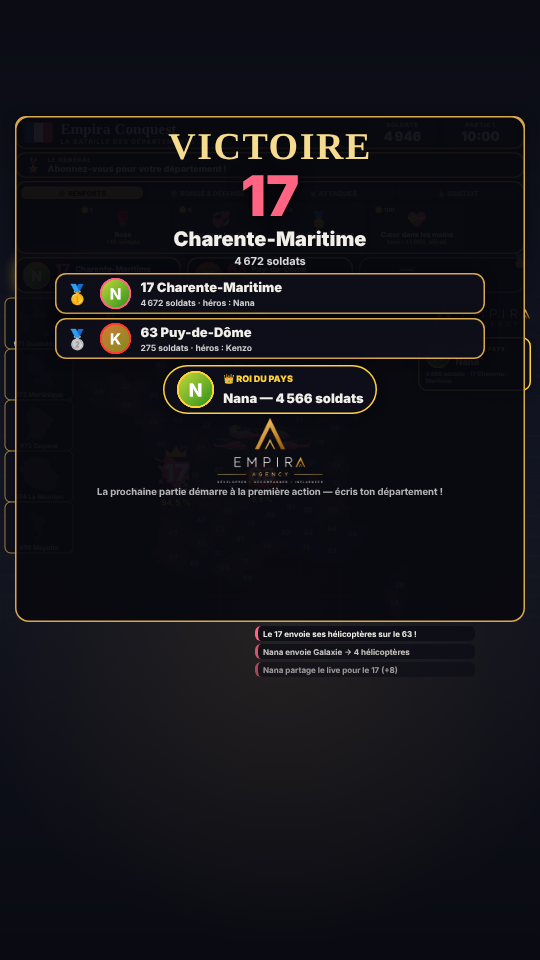
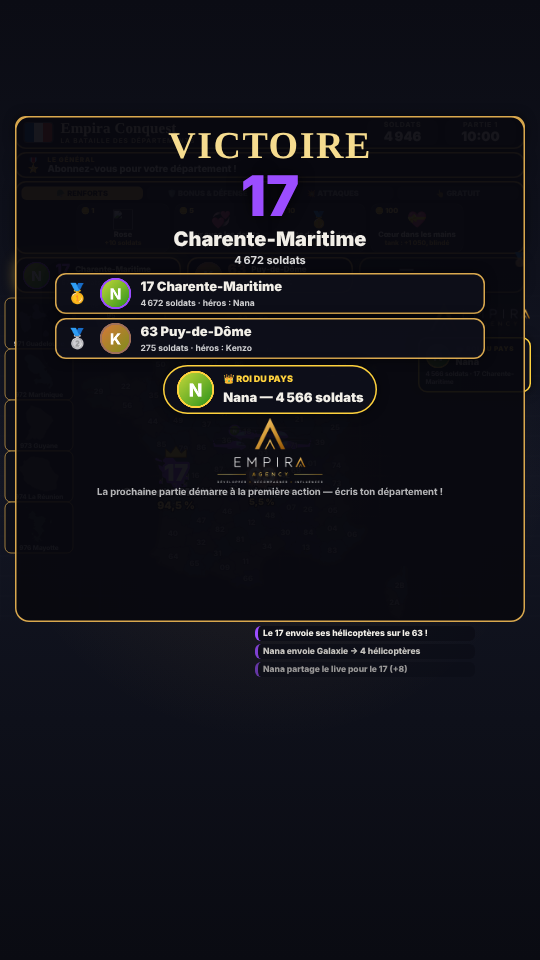
Image plus nette : rendu à la résolution réelle de l'affichage, photos en 720 px, textes agrandis
- le canevas suit la taille réelle (source LIVE Studio × mise à l'échelle Windows) au lieu d'être étiré
- cache de la carte en haute résolution, lissage des images en qualité haute
- photos de profil avatarMedium (720 px) au lieu de la miniature de 100 px
- numéros, noms et petites légendes agrandis et contourés (compression TikTok)
- guide : réglages de LIVE Studio pour une image nette

Claude-Session: https://claude.ai/code/session_01NCuRgus5nC27Z2ujoNiFEU

diff --git a/produit/src/page.html b/produit/src/page.html
@@ -8,7 +8,7 @@
 :root { color-scheme: dark; --contour: #d9a84e; --k: 0.5; --police: 'Segoe UI', system-ui, -apple-system, Roboto, sans-serif; }
 * { box-sizing: border-box; }
 html, body { margin: 0; height: 100%; background: #07080d; overflow: hidden; }
-body { font-family: var(--police); color: #f2efe8; }
+body { font-family: var(--police); color: #f2efe8; -webkit-font-smoothing: antialiased; text-rendering: geometricPrecision; }
 #scene { position: absolute; left: 50%; top: 50%; width: 1080px; height: 1920px; transform: translate(-50%, -50%) scale(var(--k)); }
 #carte { position: absolute; inset: 0; width: 1080px; height: 1920px; }
 #interface { position: absolute; inset: 0; pointer-events: none; }
@@ -20,39 +20,39 @@ body { font-family: var(--police); color: #f2efe8; }
 .titre { flex: 1; font: 700 30px Georgia, 'Times New Roman', serif; color: #f6ead0; letter-spacing: 0.01em; white-space: nowrap; overflow: hidden; text-overflow: ellipsis; }
 .titre small { display: block; font: 600 13px/1.25 var(--police); letter-spacing: 0.14em; text-transform: uppercase; color: #d9c49a; }
 .case { min-width: 140px; text-align: center; background: rgba(255, 255, 255, 0.06); border-radius: 12px; padding: 2px 12px; }
-.case small { display: block; font: 800 12px/1.2 var(--police); letter-spacing: 0.1em; color: #bdb4a0; }
+.case small { display: block; font: 800 14px/1.15 var(--police); letter-spacing: 0.1em; color: #bdb4a0; }
 .case b { font: 900 26px/1.15 var(--police); }
 .case b.urgent { color: #ff6b5b; }
 .general { top: 304px; left: 30px; right: 30px; height: 52px; display: grid; grid-template-columns: 36px 1fr; grid-template-rows: 15px 1fr; column-gap: 10px; align-items: center; padding: 4px 16px; }
 .general .medaille { grid-row: span 2; font-size: 28px; }
-.general small { font: 900 12px var(--police); letter-spacing: 0.12em; color: var(--contour); }
-.general p { margin: 0; font: 800 18px/1.15 var(--police); white-space: nowrap; overflow: hidden; text-overflow: ellipsis; }
+.general small { font: 900 13px var(--police); letter-spacing: 0.12em; color: var(--contour); }
+.general p { margin: 0; font: 800 19px/1.15 var(--police); white-space: nowrap; overflow: hidden; text-overflow: ellipsis; }
 .general.alerte { border-color: #ffd23d; animation: pulse 1.2s infinite; }
 .cadeaux { top: 362px; left: 30px; right: 30px; height: 146px; padding: 8px 10px; }
 .onglets { display: flex; gap: 8px; }
-.onglets span { flex: 1; text-align: center; padding: 4px 4px; border-radius: 10px; font: 900 14px var(--police); background: rgba(255, 255, 255, 0.05); color: rgba(255, 255, 255, 0.55); }
+.onglets span { flex: 1; text-align: center; padding: 4px 4px; border-radius: 10px; font: 900 15px var(--police); background: rgba(255, 255, 255, 0.05); color: rgba(255, 255, 255, 0.55); }
 .onglets span.actif { background: var(--contour); color: #150f02; }
 .cartes { display: flex; gap: 10px; justify-content: center; margin-top: 7px; }
 .carte { position: relative; width: 186px; height: 98px; display: flex; flex-direction: column; align-items: center; justify-content: center; gap: 2px; padding: 8px; border-radius: 16px; background: rgba(255, 255, 255, 0.05); border: 1px solid rgba(255, 255, 255, 0.1); animation: entree 0.45s ease-out both; }
 .carte:nth-child(2) { animation-delay: 0.05s; } .carte:nth-child(3) { animation-delay: 0.1s; } .carte:nth-child(4) { animation-delay: 0.15s; } .carte:nth-child(5) { animation-delay: 0.2s; }
 .carte .icone { font-size: 32px; line-height: 40px; width: 40px; height: 40px; object-fit: contain; text-align: center; }
-.carte .prix { position: absolute; top: 5px; left: 8px; font: 800 12px var(--police); color: #ffd166; }
-.carte b { font: 800 14px/1.1 var(--police); text-align: center; }
-.carte .effet { font: 800 12px/1.1 var(--police); color: var(--contour); text-align: center; }
+.carte .prix { position: absolute; top: 5px; left: 8px; font: 900 14px var(--police); color: #ffd166; }
+.carte b { font: 800 15px/1.1 var(--police); text-align: center; }
+.carte .effet { font: 800 13px/1.1 var(--police); color: var(--contour); text-align: center; }
 .top3 { top: 514px; left: 30px; right: 30px; height: 72px; display: flex; gap: 12px; }
 .place { flex: 1; display: grid; grid-template-columns: 56px auto 1fr; grid-template-rows: 1fr 1fr; column-gap: 10px; align-items: center; padding: 6px 12px; min-width: 0; }
 .place .photo { grid-row: span 2; width: 56px; height: 56px; }
 .place .num { font: 900 28px/1 var(--police); }
 .place .nom { font: 800 16px var(--police); white-space: nowrap; overflow: hidden; text-overflow: ellipsis; }
-.place .det { grid-column: span 2; font: 700 13px var(--police); color: rgba(255, 255, 255, 0.75); white-space: nowrap; }
+.place .det { grid-column: span 2; font: 700 14px var(--police); color: rgba(255, 255, 255, 0.75); white-space: nowrap; }
 .place .medaille { position: absolute; top: -10px; right: -6px; font-size: 26px; }
 .place.p0 { box-shadow: 0 0 26px rgba(255, 210, 61, 0.35); }
 .place.vide { opacity: 0.55; }
 .roi { top: 674px; right: 18px; width: 226px; display: grid; grid-template-columns: 50px 1fr; grid-template-rows: auto auto auto; column-gap: 10px; row-gap: 2px; align-items: center; padding: 10px 12px; border-color: #ffd23d; border-radius: 18px; }
 .roi .photo { grid-row: span 2; width: 50px; height: 50px; }
-.roi small { font: 900 11px var(--police); letter-spacing: 0.1em; color: #ffd23d; }
+.roi small { font: 900 13px var(--police); letter-spacing: 0.1em; color: #ffd23d; }
 .roi b { font: 900 18px/1.05 var(--police); white-space: nowrap; overflow: hidden; text-overflow: ellipsis; }
-.roi span { grid-column: span 2; font: 700 12px/1.25 var(--police); color: rgba(255, 255, 255, 0.75); }
+.roi span { grid-column: span 2; font: 700 13px/1.25 var(--police); color: rgba(255, 255, 255, 0.75); }
 .mission, .evenement { display: none; padding: 10px 12px; }
 .mission { top: 812px; right: 18px; width: 226px; border-color: #22c55e; }
 .evenement { top: 812px; right: 18px; width: 226px; border-color: #ffd23d; }
@@ -64,14 +64,14 @@ body { font-family: var(--police); color: #f2efe8; }
 .mission p { font-size: 13px; }
 .barre { height: 16px; border-radius: 8px; overflow: hidden; background: rgba(0, 0, 0, 0.4); }
 .barre i { display: block; height: 100%; background: #22c55e; transition: width 0.3s; }
-.mission small, .evenement small { display: block; margin-top: 4px; font: 700 12px/1.25 var(--police); color: rgba(255, 255, 255, 0.8); }
-.mission small { font-size: 11px; }
+.mission small, .evenement small { display: block; margin-top: 4px; font: 700 13px/1.25 var(--police); color: rgba(255, 255, 255, 0.8); }
+.mission small { font-size: 12px; }
 .temps-barre { height: 5px; margin-top: 6px; border-radius: 3px; background: rgba(0, 0, 0, 0.35); }
 .temps-barre i { display: block; height: 100%; background: #ffd166; border-radius: 3px; }
 .vague { top: 604px; left: 50%; transform: translateX(-50%); display: none; padding: 8px 24px; border-radius: 30px; background: linear-gradient(90deg, #ff8a00, #ffd23d); color: #1a1000; font: 900 26px var(--police); white-space: nowrap; box-shadow: 0 0 24px rgba(255, 180, 0, 0.6); }
 .vague.montre { display: block; animation: pulse 1s infinite; }
 .fil { top: 1252px; right: 130px; width: 440px; display: flex; flex-direction: column; gap: 6px; }
-.fil .ligne { background: rgba(12, 13, 22, 0.88); border-left: 6px solid var(--contour); border-radius: 12px; padding: 5px 10px; font: 700 16px var(--police); white-space: nowrap; overflow: hidden; text-overflow: ellipsis; animation: glisse 0.35s ease-out; }
+.fil .ligne { background: rgba(12, 13, 22, 0.9); border-left: 6px solid var(--contour); border-radius: 12px; padding: 5px 10px; font: 800 17px var(--police); white-space: nowrap; overflow: hidden; text-overflow: ellipsis; animation: glisse 0.35s ease-out; }
 .fil .ligne:nth-child(2) { opacity: 0.8; } .fil .ligne:nth-child(3) { opacity: 0.6; }
 .annonce { top: 1150px; left: 60px; right: 60px; padding: 12px 20px; text-align: center; font: 900 30px/1.15 var(--police); opacity: 0; transform: scale(0.6); transition: opacity 0.25s, transform 0.35s cubic-bezier(.2, 1.6, .4, 1); }
 .annonce.montre { opacity: 1; transform: scale(1); }

diff --git a/produit/src/rendu.js b/produit/src/rendu.js
@@ -76,12 +76,35 @@ export class Rendu {
     this.parCode = new Map(this.deps.map((d) => [d.code, d]));
     this.boiteIdf = IDF.codes.map((c) => this.parCode.get(c).boite).reduce((a, b) => ({ x1: Math.min(a.x1, b.x1), y1: Math.min(a.y1, b.y1), x2: Math.max(a.x2, b.x2), y2: Math.max(a.y2, b.y2) }));
     this.cam = { x: MAP_SIZE[0] / 2, y: MAP_SIZE[1] / 2, s: 1, cx: MAP_SIZE[0] / 2, cy: MAP_SIZE[1] / 2, cs: 1, jusqua: 0, repos: 0 };
+    this.q = 1; // pixels réels par pixel de la scène 1080 × 1920 (voir adapter)
+    this.cacheK = 2; // résolution du cache de la carte
     this.cache = document.createElement('canvas');
-    this.cache.width = MAP_SIZE[0] * 2;
-    this.cache.height = MAP_SIZE[1] * 2;
+    this.cache.width = MAP_SIZE[0] * this.cacheK;
+    this.cache.height = MAP_SIZE[1] * this.cacheK;
     this.cleCache = '';
     this.fond = this.#fond();
     this.vider();
+  }
+
+  /**
+   * Netteté : le canevas est dessiné à la résolution réelle de l'affichage (taille de la source dans LIVE Studio ×
+   * mise à l'échelle de Windows), au lieu d'une image fixe de 1080 × 1920 agrandie (floue à 125 % ou 150 %).
+   */
+  adapter(q) {
+    const nq = Math.max(0.5, Math.min(3, Math.round(q * 100) / 100));
+    if (nq === this.q && this.canvas.width === Math.round(LARGEUR * nq)) return;
+    this.q = nq;
+    this.canvas.width = Math.round(LARGEUR * nq);
+    this.canvas.height = Math.round(HAUTEUR * nq);
+    // la carte peut être zoomée ×2 : son cache doit suivre la résolution
+    const ck = Math.min(4, Math.max(2, Math.ceil(nq * 1.4)));
+    if (ck !== this.cacheK) {
+      this.cacheK = ck;
+      this.cache.width = MAP_SIZE[0] * ck;
+      this.cache.height = MAP_SIZE[1] * ck;
+    }
+    this.cleCache = '';
+    this.fond = this.#fond();
   }
 
   vider() {
@@ -107,16 +130,17 @@ export class Rendu {
 
   #fond() {
     const c = document.createElement('canvas');
-    c.width = LARGEUR;
-    c.height = HAUTEUR;
+    c.width = Math.round(LARGEUR * this.q);
+    c.height = Math.round(HAUTEUR * this.q);
     const g = c.getContext('2d');
+    g.scale(this.q, this.q);
     const grad = g.createLinearGradient(0, 0, 0, HAUTEUR);
     grad.addColorStop(0, '#0b0c14');
     grad.addColorStop(0.5, '#121522');
     grad.addColorStop(1, '#0a0b12');
     g.fillStyle = grad;
     g.fillRect(0, 0, LARGEUR, HAUTEUR);
-    const halo = g.createRadialGradient(560, 1280, 40, 560, 1280, 620);
+    const halo = g.createRadialGradient(540, 920, 40, 540, 920, 560);
     halo.addColorStop(0, 'rgba(217,168,78,0.10)');
     halo.addColorStop(1, 'rgba(217,168,78,0)');
     g.fillStyle = halo;
@@ -540,8 +564,9 @@ export class Rendu {
   dessiner(dt) {
     this.#avancer(dt);
     const { ctx } = this;
-    ctx.setTransform(1, 0, 0, 1, 0, 0);
-    ctx.drawImage(this.fond, 0, 0);
+    ctx.setTransform(this.q, 0, 0, this.q, 0, 0);
+    ctx.imageSmoothingQuality = 'high';
+    ctx.drawImage(this.fond, 0, 0, LARGEUR, HAUTEUR);
     ctx.save();
     ctx.beginPath();
     ctx.rect(0, ZONE.haut, LARGEUR, ZONE.bas - ZONE.haut);
@@ -649,7 +674,8 @@ export class Rendu {
       const g = this.cache.getContext('2d');
       g.setTransform(1, 0, 0, 1, 0, 0);
       g.clearRect(0, 0, this.cache.width, this.cache.height);
-      g.setTransform(2, 0, 0, 2, 0, 0);
+      g.setTransform(this.cacheK, 0, 0, this.cacheK, 0, 0);
+      g.imageSmoothingQuality = 'high';
       g.shadowColor = 'rgba(217,168,78,0.25)';
       g.shadowBlur = 24;
       g.fillStyle = '#1b1e2c';
@@ -723,7 +749,7 @@ export class Rendu {
       if (['75', '92', '93', '94'].includes(d.code) && this.cam.s < 1.6) continue;
       const [x, y] = this.ecran(d.code);
       if (y < ZONE.haut || y > ZONE.bas) continue;
-      this.#texte(d.code, x, y, { taille: (e ? 18 : 14) * z, poids: 800, align: 'center', couleur: e ? '#fff' : 'rgba(255,255,255,0.35)', contour: e ? 'rgba(0,0,0,0.7)' : null });
+      this.#texte(d.code, x, y, { taille: (e ? 21 : 15) * z, poids: 800, align: 'center', couleur: e ? '#fff' : 'rgba(255,255,255,0.45)', contour: e ? 'rgba(0,0,0,0.85)' : 'rgba(0,0,0,0.35)', epaisseur: e ? 5 : 3 });
     }
     // le top 3 en grand, avec nom et pourcentage
     cl.slice(0, 3).forEach((e, i) => {
@@ -735,8 +761,8 @@ export class Rendu {
       if (i === 0) this.#couronne(x, y - 34 * s, 16 * s);
       this.#texte(e.code, x, y, { taille: 36 * s, poids: 900, align: 'center', contour: couleur, epaisseur: 7 * s });
       if (!d.overseas) {
-        this.#texte(e.nom, x, y + 27 * s, { taille: 14 * s, poids: 800, align: 'center', contour: 'rgba(0,0,0,0.8)', epaisseur: 4 });
-        this.#texte(`${(P.part(e) * 100).toFixed(1).replace('.', ',')} %`, x, y + 44 * s, { taille: 13 * s, poids: 800, align: 'center', couleur: '#ffd166', contour: 'rgba(0,0,0,0.8)', epaisseur: 4 });
+        this.#texte(e.nom, x, y + 29 * s, { taille: 17 * s, poids: 900, align: 'center', contour: 'rgba(0,0,0,0.9)', epaisseur: 5 });
+        this.#texte(`${(P.part(e) * 100).toFixed(1).replace('.', ',')} %`, x, y + 49 * s, { taille: 16 * s, poids: 900, align: 'center', couleur: '#ffd166', contour: 'rgba(0,0,0,0.9)', epaisseur: 5 });
       }
     });
   }

diff --git a/produit/GUIDE.html b/produit/GUIDE.html
@@ -50,6 +50,15 @@ table { border-collapse: collapse; width: 100%; } td { border-top: 1px solid #2a
 </ol>
 <p class="note">Si tu changes de couleurs ou de voix, recopie l’adresse depuis la page de démarrage : les réglages sont dans l’adresse, car LIVE Studio ne partage pas la mémoire du navigateur.</p>
 
+<h2>Image nette sur TikTok</h2>
+<p>Le jeu se dessine automatiquement à la résolution réelle de ton écran (même avec la mise à l’échelle de Windows à 125 % ou 150 %). Ce qui reste flou vient presque toujours des réglages de diffusion :</p>
+<ul>
+  <li>Source <b>Lien</b> réglée sur <b>1080 × 1920</b>, sans l’agrandir à la souris dans la scène (une source plus petite étirée devient floue).</li>
+  <li>Dans les paramètres de LIVE Studio : résolution <b>1080p</b>, et le <b>débit (bitrate) le plus élevé</b> que ta connexion supporte (6 000 kbit/s ou plus si possible). Un débit trop bas est la première cause de flou sur TikTok.</li>
+  <li>Une connexion filaire (câble) plutôt que le Wi-Fi, et pas de téléchargements en même temps que le live.</li>
+  <li>30 images par seconde suffisent : en cas de débit limité, 30 est plus net que 60.</li>
+</ul>
+
 <h2>Couleurs</h2>
 <p>Dans la fenêtre de pilotage, tu choisis la couleur des départements, celle des <b>soldats</b> et celle des <b>véhicules</b> (tanks, avions, hélicoptères, porte-avions) : couleur du département, une couleur proposée, aléatoire, ou <b>ta couleur</b> au choix.</p>
 

diff --git a/produit/src/main.js b/produit/src/main.js
@@ -34,6 +34,7 @@ function ecrire(cle, valeur) {
 function adapterEchelle() {
   const k = Math.min(window.innerWidth / 1080, window.innerHeight / 1920);
   document.documentElement.style.setProperty('--k', String(k));
+  return k;
 }
 
 async function licenceValide() {
@@ -67,6 +68,12 @@ async function demarrer() {
   const theme = new Theme(reglages);
   const photos = new Photos();
   const rendu = new Rendu(document.getElementById('carte'), partie, theme, { photos });
+  // netteté : le canevas suit la taille réelle de l'affichage et la mise à l'échelle de Windows
+  const ajuster = () => rendu.adapter(adapterEchelle() * (window.devicePixelRatio || 1));
+  ajuster();
+  window.addEventListener('resize', ajuster);
+  const suivreDpr = () => matchMedia(`(resolution: ${window.devicePixelRatio || 1}dppx)`).addEventListener('change', () => (ajuster(), suivreDpr()), { once: true });
+  suivreDpr();
   const hud = new Interface(document.getElementById('interface'), partie, theme, photos);
   const bruitages = new Bruitages();
   const musique = new Musique();

diff --git a/docs/09-version-vendue.md b/docs/09-version-vendue.md
@@ -101,6 +101,11 @@ Interprétations (le cahier des charges ne tranchait pas) :
   bombardier.
 - **Couleurs** : soldats et véhicules réglés séparément (couleur du département, 8 couleurs, aléatoire ou couleur
   personnalisée).
+- **Netteté** : le canevas est dessiné à la résolution réelle de l'affichage (taille de la source × mise à l'échelle
+  Windows, jusqu'à ×3) au lieu d'une image fixe de 1080 × 1920 agrandie ; cache de la carte en haute résolution ;
+  photos de profil en 720 px (avatarMedium) au lieu de la miniature de 100 px ; textes de la carte et petites
+  légendes agrandis et contourés pour rester lisibles après la compression de TikTok. Le guide liste les réglages
+  de LIVE Studio (source 1080 × 1920 non étirée, 1080p, débit élevé).
 - **Logo** : le logo fourni par Empira (fond rendu transparent) est intégré au jeu : version compacte sur la carte,
   version complète sur le podium, la fenêtre de pilotage, l'écran de licence et le guide ; icône d'onglet. Il n'est plus
   remplaçable par l'acheteur (le dossier `images/` a disparu).
